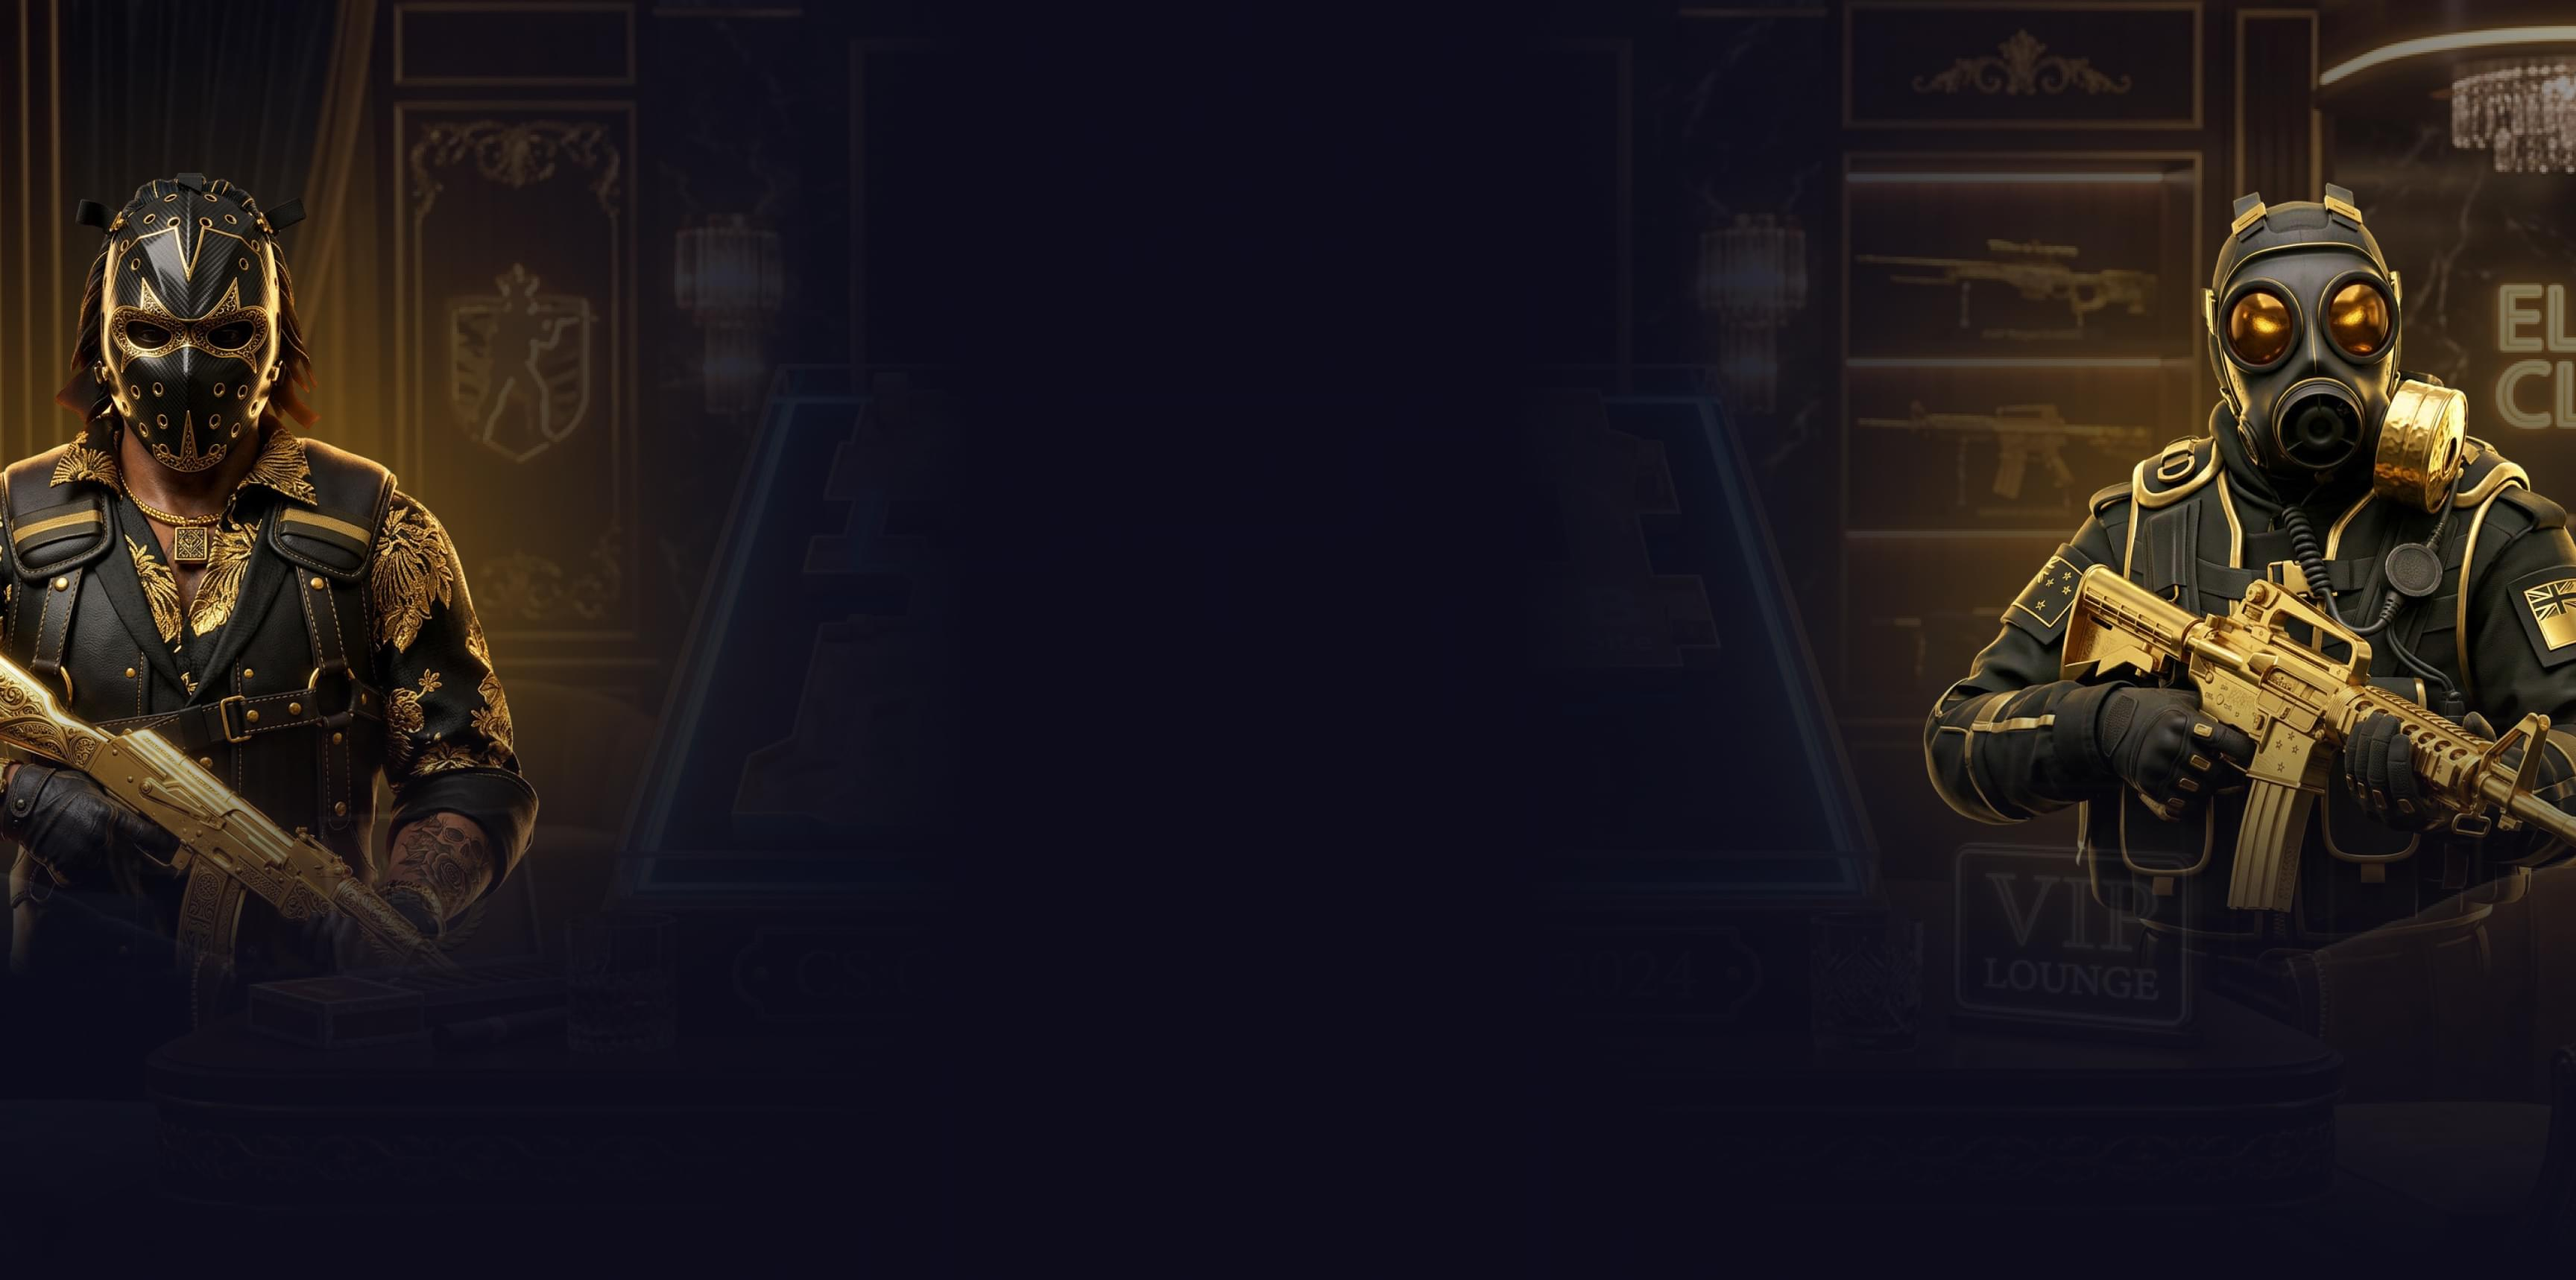
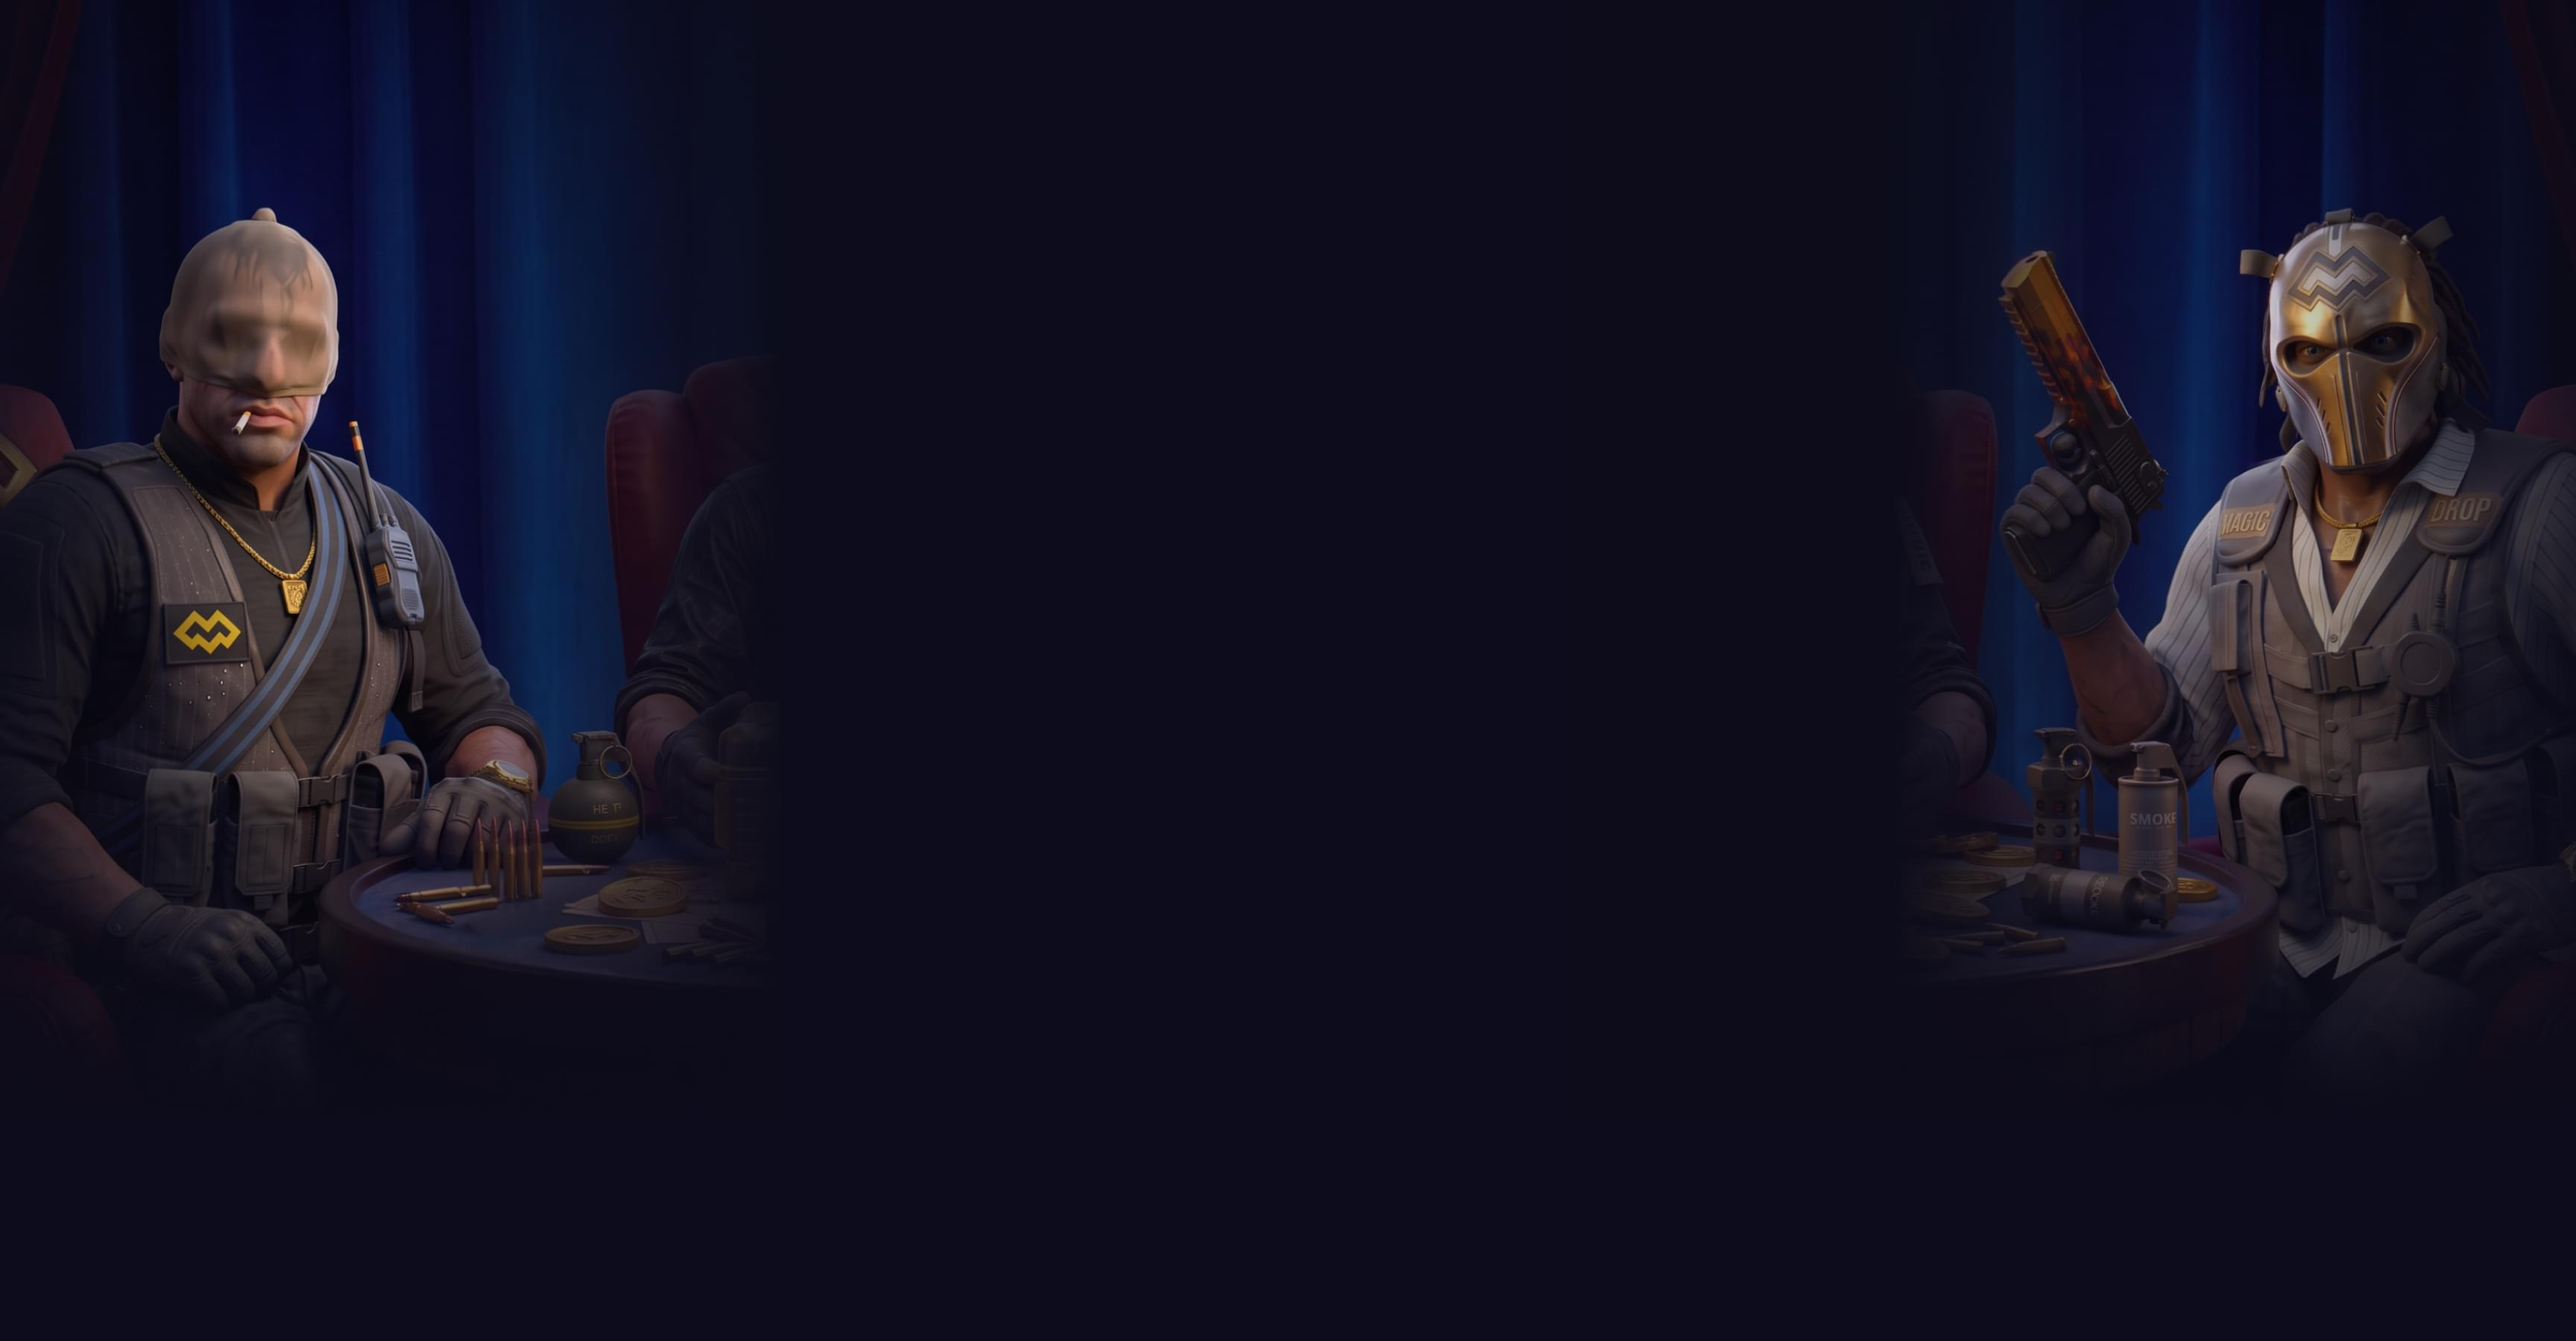
Change profile vip bg and tg bg

Changed region(s): [[0.6562, 0.0, 1.0, 0.7404], [0.0, 0.0, 0.3125, 0.7404]]

diff --git a/css/styles.css b/css/styles.css
@@ -15760,8 +15760,8 @@ main:has(.profile-header--vip-bg) {
 .profile-header__vip-tg {
   min-height: 11.2rem;
   padding: 1.6rem 11% 1.6rem 1.6rem;
-  background: right center/auto 100% no-repeat -webkit-image-set(url("../images/bg/bg-vip-tg.webp") type("image/webp"), url("../images/bg/bg-vip-tg.png") type("image/png")), linear-gradient(120.94deg, #dda516 0%, #ddc916 100%);
-  background: right center/auto 100% no-repeat image-set(url("../images/bg/bg-vip-tg.webp") type("image/webp"), url("../images/bg/bg-vip-tg.png") type("image/png")), linear-gradient(120.94deg, #dda516 0%, #ddc916 100%);
+  background: right center/auto 100% no-repeat -webkit-image-set(url("../images/bg/bg-vip-tg.webp") type("image/webp"), url("../images/bg/bg-vip-tg.png") type("image/png")), linear-gradient(120.94deg, #12336a 0%, #0d0f2f 100%);
+  background: right center/auto 100% no-repeat image-set(url("../images/bg/bg-vip-tg.webp") type("image/webp"), url("../images/bg/bg-vip-tg.png") type("image/png")), linear-gradient(120.94deg, #12336a 0%, #0d0f2f 100%);
   border-radius: 0.4rem 1.2rem 1.2rem 0.4rem;
 }
 @media (max-width: 768px) {
@@ -15774,7 +15774,7 @@ main:has(.profile-header--vip-bg) {
 
 .profile-header__vip-tg-title {
   max-width: 13rem;
-  color: #161119;
+  color: #E4F7FF;
   font-weight: 900;
   line-height: 113%;
   text-transform: uppercase;
@@ -15799,17 +15799,18 @@ main:has(.profile-header--vip-bg) {
           column-gap: 0.4rem;
   height: 3.4rem;
   padding: 0 0.8rem;
-  background-color: #161119;
-  color: #DDC916;
-  -webkit-transition: color 0.2s ease-out;
-  transition: color 0.2s ease-out;
+  background: #E4F7FF;
+  color: #0C0C1B;
+  -webkit-transition: color 0.2s ease-out, background-color 0.2s ease-out;
+  transition: color 0.2s ease-out, background-color 0.2s ease-out;
 }
 @media (any-hover: hover) {
   .profile-header__vip-tg-btn:hover {
-    color: #FFFFFF;
+    background: #FFFFFF;
+    color: #12336a;
   }
   .profile-header__vip-tg-btn:hover svg {
-    fill: #FFFFFF;
+    fill: #12336a;
     -webkit-transition: fill 0.2s ease-out;
     transition: fill 0.2s ease-out;
   }
@@ -15819,7 +15820,7 @@ main:has(.profile-header--vip-bg) {
   height: 1.6rem;
   -ms-flex-preferred-size: 1.6rem;
       flex-basis: 1.6rem;
-  fill: #DDC916;
+  fill: #0C0C1B;
 }
 
 .profile-header__params-list {
